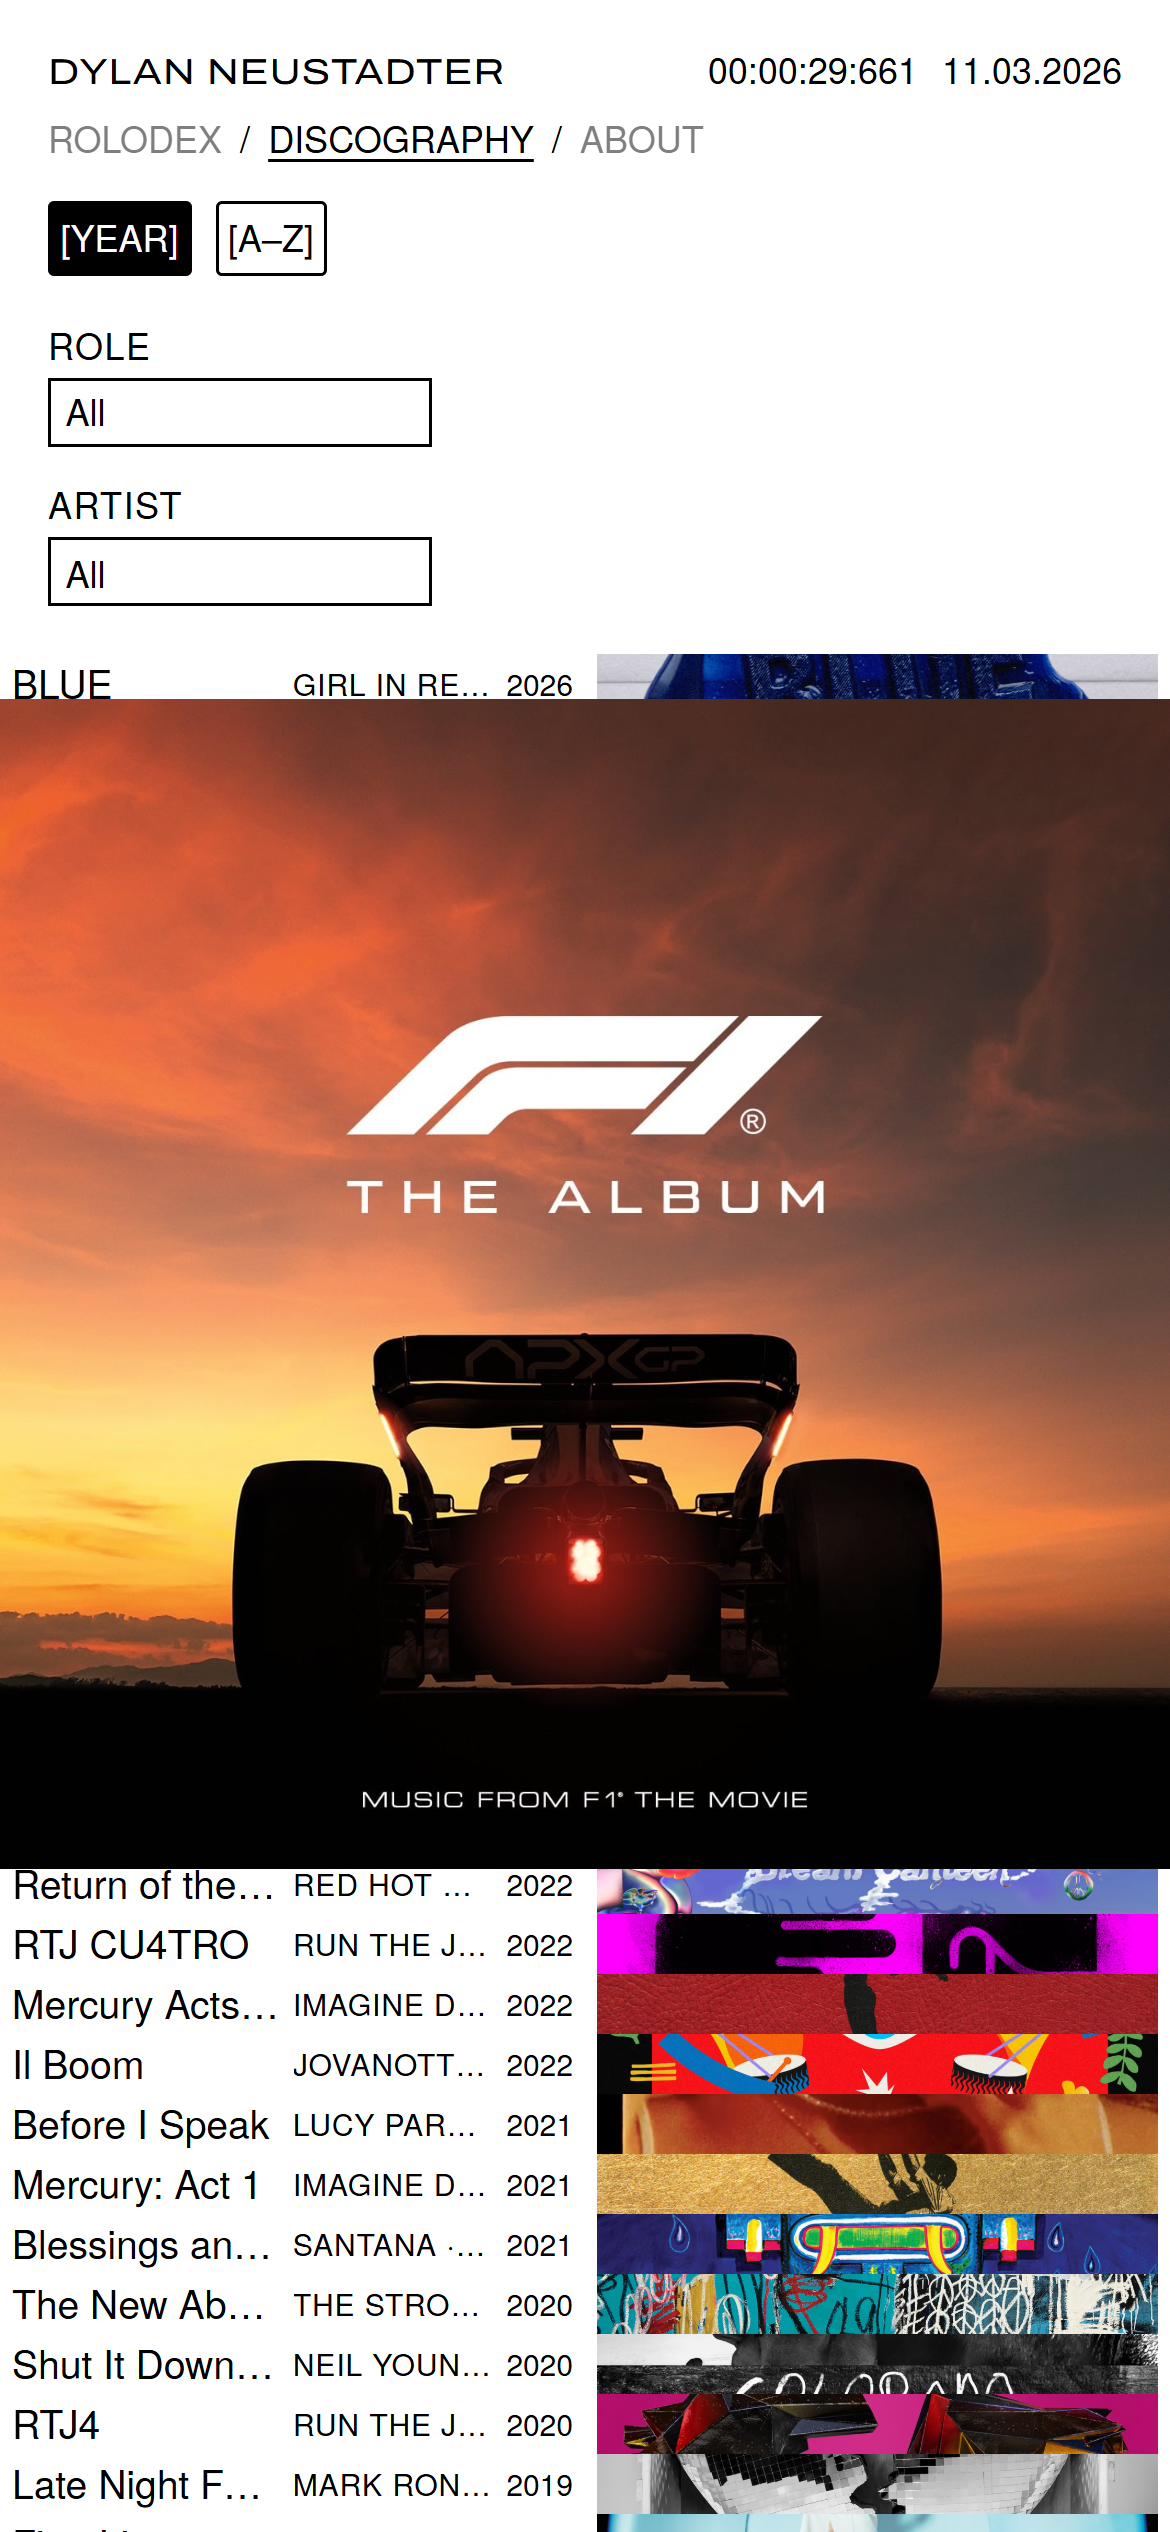
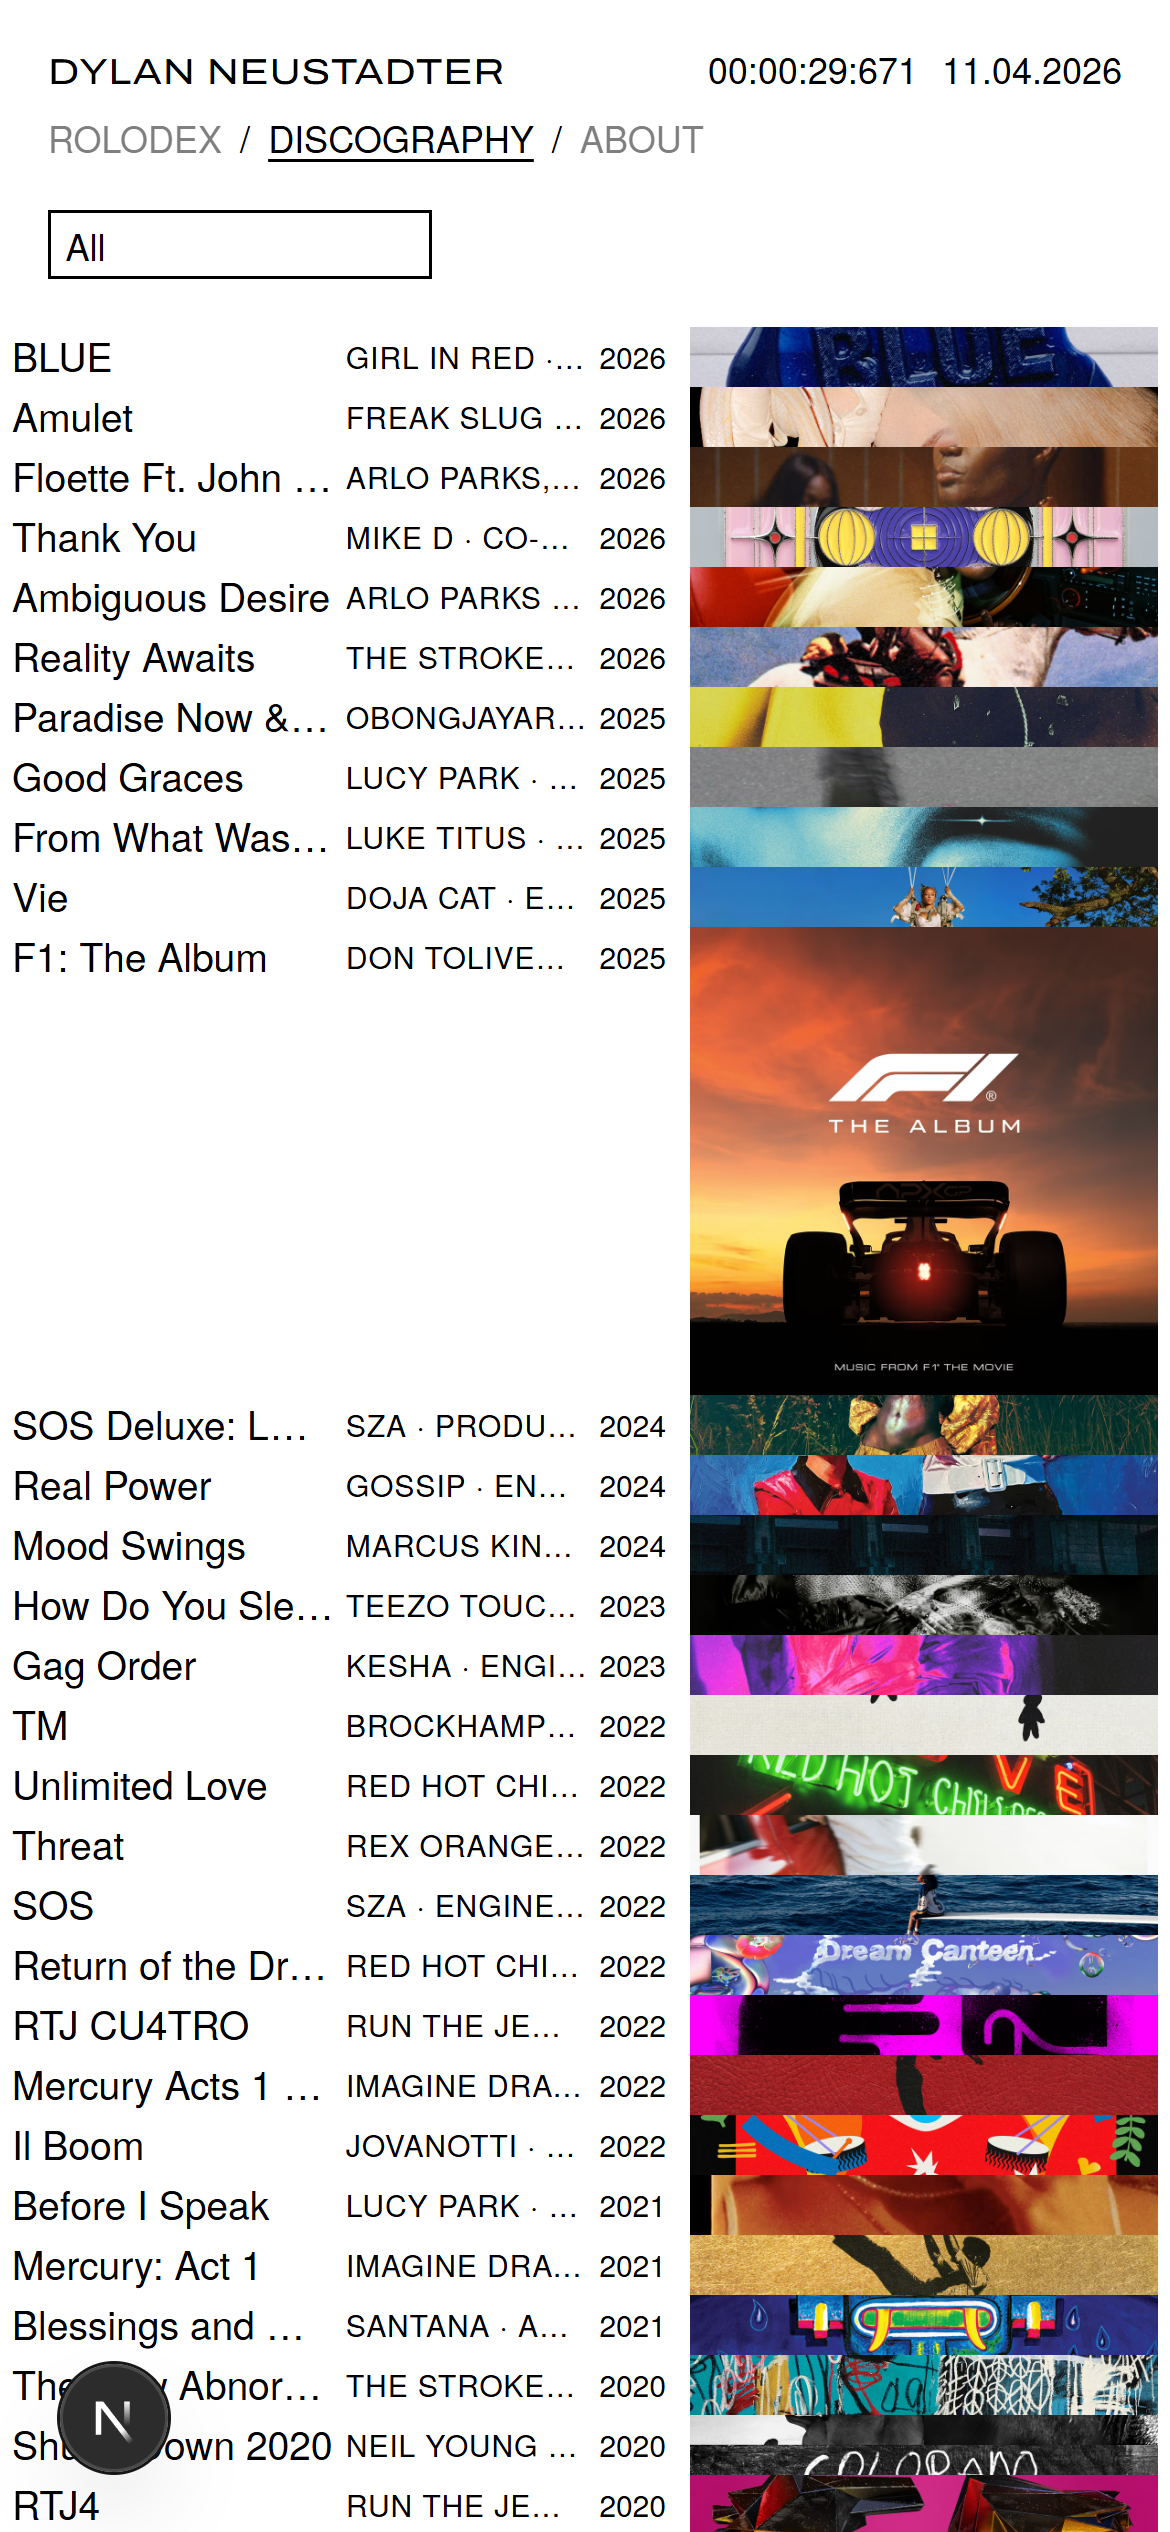
feat(gillenwebsite): phones grow the discography cover inside its row
Phones only (under 720 px): the active row (nearest the middle of the screen,
chosen once the page rests, never while a finger is down) grows within its own
row. Its cover becomes a square the width of the cover column, 40vw, and the
row's height grows to 40vw to fit. It overlaps no other row, and the overlay
layers are desktop only now. While the rows change height the page scrolls
with them, holding the active row's middle in place. A tap opens the record
view at full size from that square. Desktop is unchanged.

Measured (docs/gillenwebsite/expand-report.json, 390 x 844 DPR 3): cover 156 px
wide (40.0% of the viewport) and inside its row at all 24 scroll positions;
the largest overlap between neighbouring rows is 0 px; exactly one active row,
always the one nearest the middle; unchanged with a finger down; a tap opens
the record view. Phone CLS is 0.063 now that rows change height (it was 0 with
the overlay). Desktop: hover 183 / 233 ms, CLS 0, unchanged.

diff --git a/components/gillenwebsite/Discography.tsx b/components/gillenwebsite/Discography.tsx
@@ -1,13 +1,16 @@
 "use client";
 // /gillenwebsite/discography: the plain, complete list. All 36 releases in discography.json order, newest first.
-// Hovering a row (desktop), or scrolling it to the middle of the screen (phones), expands its cover in place
-// (expand.ts). A tap on a row opens the release in the record view (VinylView.tsx), from the row's cover. Same
+// Hovering a row (desktop) expands its cover in place over its neighbours (expand.ts). On phones the row nearest the
+// middle of the screen grows within itself to hold its cover as a square ~40% of the screen wide. A tap on a row opens the release in the record view (VinylView.tsx), from the row's cover. Same
 // document throughout: no route change, only the hash is replaced.
 import { useEffect, useMemo, useRef, useState, useSyncExternalStore } from "react";
 import type { Release } from "@/lib/gillenwebsite/discography";
 import { rolesOf, caps, no3 } from "./shared";
 import { usePanel } from "./Chrome";
 import { makeExpander } from "./expand";
+
+// phones: the active row's height change (site.module.css .discoItem[data-active])
+const ROW_MS = 200;
 import Cover from "./Cover";
 import css from "./site.module.css";
 
@@ -60,14 +63,25 @@ export default function Discography({ releases }: { releases: Release[] }) {
       }
       const id = best?.dataset.id ?? null;
       if (id === active) return;
-      if (active) e.shrink(active, true);
+      // phones: the cover grows inside its own row (data-active, site.module.css), the row taller to fit; the rows
+      // above it change height, so the page is scrolled along with them for the length of the change
+      el.querySelector(`li[data-active]`)?.removeAttribute("data-active");
       active = id;
-      if (best) e.grow(best);
+      if (!best) return;
+      best.setAttribute("data-active", "");
+      // its middle is held where it was, so it stays the row nearest the middle of the screen as it grows
+      const mid = (r: DOMRect) => r.top + r.height / 2, y0 = mid(best.getBoundingClientRect()), t0 = performance.now();
+      const hold = () => {
+        const dy = mid(best!.getBoundingClientRect()) - y0;
+        if (Math.abs(dy) > 0.5) scrollBy(0, dy);
+        if (performance.now() - t0 < ROW_MS + 80) requestAnimationFrame(hold);
+      };
+      requestAnimationFrame(hold);
     };
     const onScroll = () => { clearTimeout(idle); idle = window.setTimeout(pick, 80); };
     const onDown = () => { touching = true; clearTimeout(idle); };
     const onUp = () => { touching = false; onScroll(); };
-    const onResize = () => { e.reset(); active = null; hovered.current = null; pick(); };
+    const onResize = () => { e.reset(); el.querySelector("li[data-active]")?.removeAttribute("data-active"); active = null; hovered.current = null; pick(); };
     addEventListener("scroll", onScroll, { passive: true });
     addEventListener("scrollend", pick);
     addEventListener("touchstart", onDown, { passive: true });
@@ -77,7 +91,7 @@ export default function Discography({ releases }: { releases: Release[] }) {
     // the first active row once the covers have laid out
     const first = window.setTimeout(pick, 300);
     // measurement hook (scripts/gillenwebsite/expand.mjs)
-    (window as unknown as { __disco: unknown }).__disco = { open: () => e.open(), log: () => log, active: () => active };
+    (window as unknown as { __disco: unknown }).__disco = { open: () => (phone() ? el.querySelectorAll("li[data-active]").length : e.open()), log: () => log, active: () => active };
     return () => {
       clearTimeout(idle); clearTimeout(first);
       removeEventListener("scroll", onScroll); removeEventListener("scrollend", pick);

diff --git a/components/gillenwebsite/site.module.css b/components/gillenwebsite/site.module.css
@@ -276,6 +276,13 @@
 .vvTrack { display: grid; grid-template-columns: 32px auto; gap: 0.25rem; padding: 4px 0; font-variant-numeric: tabular-nums; }
 .vvCollab { display: flex; flex-direction: column; gap: 4px; border-top: 0.5px solid var(--ink); padding-top: 8px; }
 .vvControls { display: flex; gap: 18px; margin-top: auto; padding-top: 12px; }
+/* phones: the discography's active row (Discography.tsx, data-active) grows to hold its cover as a square the width
+   of the cover column, 40vw; nothing overlaps another row */
+@media (max-width: 719px) {
+  .discoRow { grid-template-columns: 1fr calc(40vw + 0.5rem); transition: height 0.2s cubic-bezier(0.215, 0.61, 0.355, 1), max-height 0.2s cubic-bezier(0.215, 0.61, 0.355, 1); }
+  .discoItem[data-active] .discoRow { height: 40vw; max-height: 40vw; }
+  .discoItem[data-active] .slice, .discoItem[data-active] .sliceClip { height: 100%; }
+}
 @media (max-width: 719px) {
   .vvInfo { top: calc(var(--head) + 62vw + 8px); left: 0; width: auto; padding: 0 16px 24px; font-size: 15px; }
   .vvInfo .vvDylan { font-size: 32px !important; }
